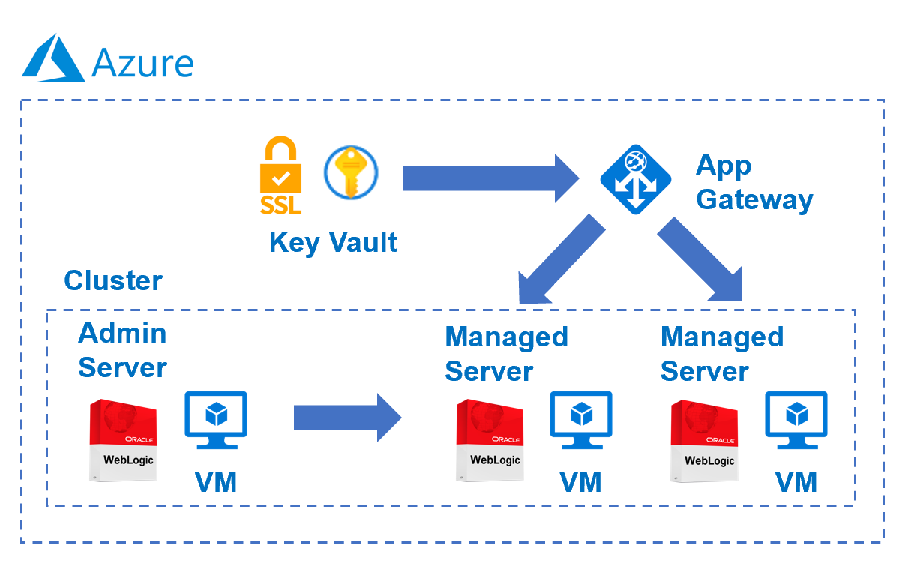
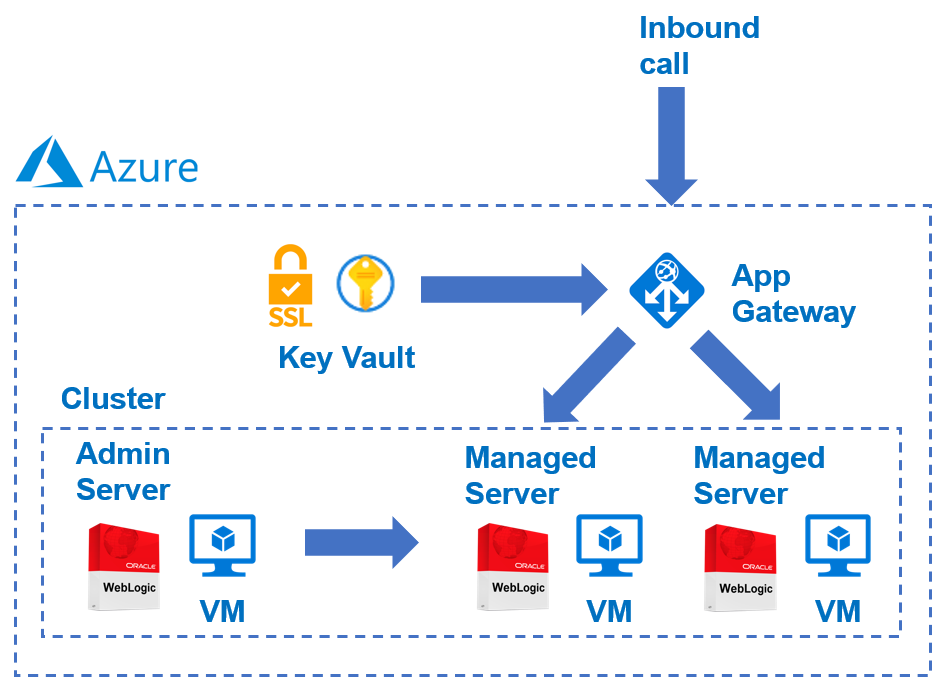
On branch edburns-msft-dd-1165925-wls-aag-key-vault Changes from Asir. modified:   articles/java/migration/migrate-weblogic-to-virtual-machines.md modified:   articles/java/migration/migrate-weblogic-with-app-gateway.md modified:   articles/java/migration/media/migrate-weblogic/weblogic-appgateway-k
App Gateway tutorial - the first image should have an arrow to indicate inbound calls
App Gateway tutorial - you probably want to highlight the base64 encoding
App Gateway tutorial - "Next Steps" should be "Learn more about Oracle WebLogic on Azure" rather than "What"
Migration guide - in addition to "Account for", we should advertise this as part of Post-migration steps

diff --git a/articles/java/migration/migrate-weblogic-with-app-gateway.md b/articles/java/migration/migrate-weblogic-with-app-gateway.md
@@ -67,7 +67,12 @@ Key vault creation is fairly lightweight, typically completing in less than two 
 
 ## Create an SSL certificate
 
-This section shows how to create a self-signed SSL certificate in a format suitable for use by Application Gateway.  The certificate must have a non-empty password.  If you already have a valid, non-empty password SSL certificate in *.pfx* format, you can skip this section and move on to the next.  If your existing, valid, non-empty password SSL certificate is not in the *.pfx* format, first convert it to a *.pfx* file before skipping to the next section.  Otherwise, open a command shell and enter the following commands.
+This section shows how to create a self-signed SSL certificate in a format suitable for use by Application Gateway deployed with WebLogic on Azure.  The certificate must have a non-empty password.  If you already have a valid, non-empty password SSL certificate in *.pfx* format, you can skip this section and move on to the next.  If your existing, valid, non-empty password SSL certificate is not in the *.pfx* format, first convert it to a *.pfx* file before skipping to the next section.  Otherwise, open a command shell and enter the following commands.
+
+> [!NOTE]
+> This section shows how to base 64 encode the certificate before storing it as a secret in the Key Vault.  This is required by the underlying Azure deployment that creates the WebLogic Server and Application Gateway.
+
+Follow these steps to create and base 64 encode the certificate:
 
 1. Create an `RSA PRIVATE KEY`
 
@@ -175,4 +180,4 @@ If you're not going to continue to use the WLS cluster, delete the Key Vault and
 
 Continue to explore options to run WLS on Azure.
 > [!div class="nextstepaction"]
-> [What is Oracle WebLogic on Azure?](/azure/virtual-machines/workloads/oracle/oracle-weblogic)
+> [Learn more about Oracle WebLogic on Azure](/azure/virtual-machines/workloads/oracle/oracle-weblogic)

diff --git a/articles/java/migration/migrate-weblogic-to-virtual-machines.md b/articles/java/migration/migrate-weblogic-to-virtual-machines.md
@@ -154,6 +154,9 @@ After you've reached the migration goals you defined in the [pre-migration](#pre
 
 * Deploy your applications to your migrated WebLogic cluster with Azure DevOps. For more information, see [Azure DevOps getting started documentation](/azure/devops/get-started/?view=azure-devops).
 
+* If you deployed WebLogic Server with Azure Application Gateway by following the steps in [Tutorial: Migrate a WebLogic Server cluster to Azure with Azure Application Gateway as a load balancer](migrate-weblogic-with-app-gateway.md), you may want to do additional configuration on the Application Gateway.  For more information, see [Application Gateway configuration overview
+](/azure/application-gateway/configuration-overview).
+
 * Enhance your network topology with advanced load balancing services. For more information, see [Using load-balancing services in Azure](/azure/traffic-manager/traffic-manager-load-balancing-azure).
 
 * Leverage Azure Managed Identities to managed secrets and assign role based access to Azure resources. For more information, see [What are managed identities for Azure resources?](/azure/active-directory/managed-identities-azure-resources/overview).
